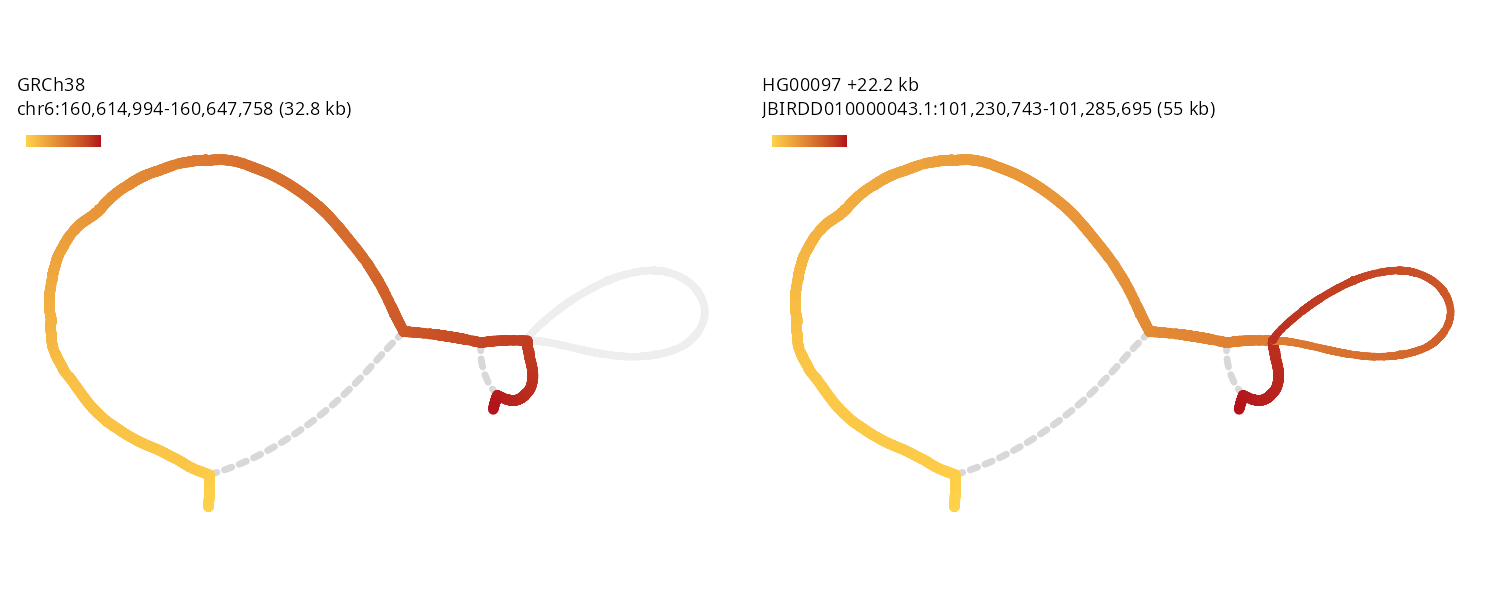
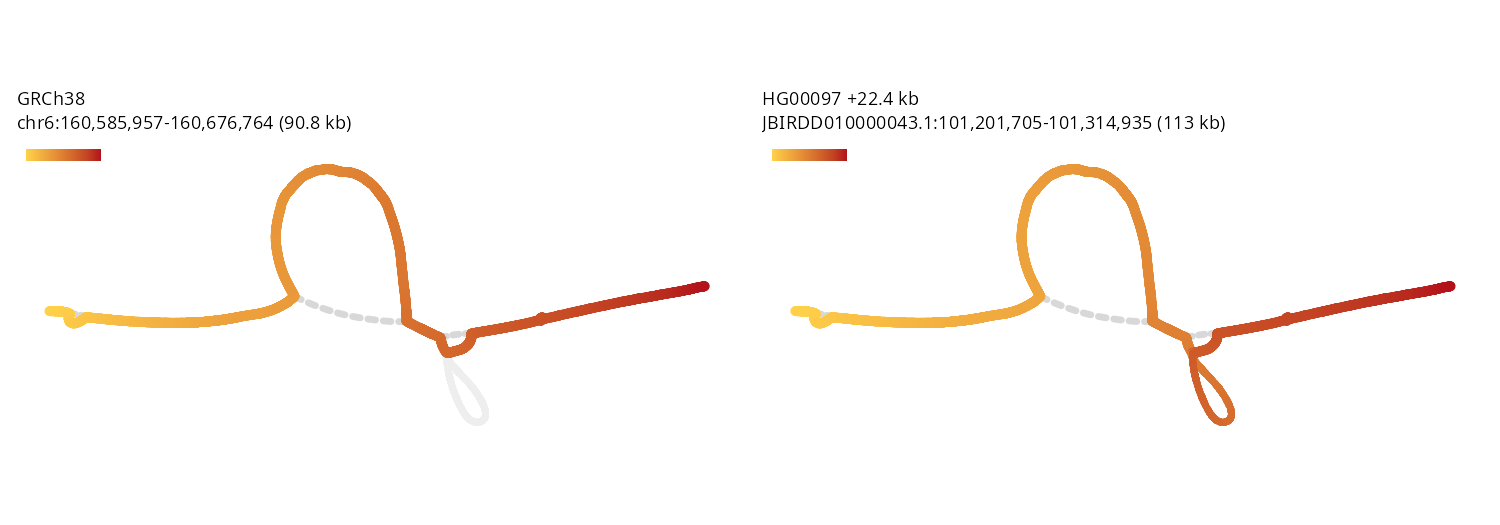
Give own_colours and kiv2_walks 30 kb of KIV-2 flank
Both drew GRCh38 as a 1 kb stub, so neither showed where straight reference
meets the array. own_colours also compresses node lengths, since its
two-haplotype loop filled most of the figure. kiv2_walks keeps lengths
proportional: compressing shrinks HG00097's 22 kb loop, the one thing it shows.

diff --git a/README.md b/README.md
@@ -78,7 +78,7 @@ kinds of index, exporting a region as GFA, and building a region's syng graph.
 <!-- gallery -->
 <table>
 <tr><td width="25%"><a href="docs/gallery.md#cfhr3-and-cfhr1-deleted-in-one-haplotype"><img src="gallery/cfh_overlay.png" alt="Force-directed CFH locus with GRCh38, HG00097 and HG02055 lifted together, each shaded along its own length: GRCh38 grey, HG00097 cyan to blue and HG02055 pink to plum. GRCh38 and HG00097 run the loop through CFHR3 and CFHR1, and HG02055 alone takes the dashed deletion edge under it. Walk rows below, each on its walk's ramp, give the lengths, GRCh38 and HG00097 260 kb and HG02055 176 kb, and the ribbons from HG00097 down to HG02055 break across the 85 kb HG02055 lacks" width="100%"></a><br>CFHR3 and CFHR1 deleted in one haplotype</td><td width="25%"><a href="docs/gallery.md#kiv-2-copy-number-as-walk-rows"><img src="gallery/kiv2_rows.png" alt="Walk rows at KIV-2 on a bp-from-flank axis: between the flanking reference nodes GRCh38 spans 31 kb and HG00133#2 164 kb, and the extra copies, on non-reference nodes, fall into three blocks: A, 68 kb walked by HG02055#1 and HG00133#2; B, 22 kb walked by four haplotypes; and C, 5.5 kb walked by two" width="100%"></a><br>KIV-2 copy number as walk rows</td><td width="25%"><a href="docs/gallery.md#amylase-haplotypes-from-146-to-475-kb"><img src="gallery/amylase_rows.png" alt="Walk rows over the salivary amylase genes for GRCh38 and seven haplotypes, each bar coloured by the GRCh38 position it covers: against GRCh38's 240 kb the haplotypes span 146 kb to 475 kb. HG00128#1 and HG002#1 walk the non-reference block A twice, CHM13 and HG00097#2 once, HG00099#1 and HG00097#1 walk block C in its place, and HG00097#1 has a 19 kb stretch the graph lacks, drawn as an open box" width="100%"></a><br>Amylase haplotypes from 146 to 475 kb</td><td width="25%"><a href="docs/gallery.md#cyp2d6-deletion-as-an-arch-over-the-gene"><img src="gallery/cyp2d6_stress.png" alt="Stress layout of CYP2D6 from the hosted index, GRCh38 drawn straight and coloured by position from NDUFA6-DT to CYP2D7, exons outlined in gold: a dashed arch spans CYP2D6, the route of haplotypes that skip the gene, and non-reference sequence hangs in charcoal loops above and below" width="100%"></a><br>CYP2D6 deletion as an arch over the gene</td></tr>
-<tr><td width="25%"><a href="docs/gallery.md#kiv-2-expansions-as-extra-loops"><img src="gallery/kiv2_overlay.png" alt="Force-directed KIV-2 array with GRCh38, HG00133 and HG00097 lifted together, each shaded along its own length from light to mid-tone: GRCh38 grey, HG00133 cyan to blue, 133 kb longer, and HG00097 yellow to red-orange, 22.4 kb longer. GRCh38 runs straight in along 30 kb of flank from either side to a knot of loops at the array. Where walks share nodes their lanes run side by side. All three walks run the loops at the top, HG00133 and HG00097 run the loop at the lower right together, and HG00133 alone runs the loop at the lower left. Walk rows below, each on its walk's ramp under a grey strip where it runs on the GRCh38 path, give the lengths: GRCh38 31 kb, HG00133 164 kb and HG00097 53 kb, with the lower right loop outlined as block A in both" width="100%"></a><br>KIV-2 expansions as extra loops</td><td width="25%"><a href="docs/gallery.md#c4-copies-as-threads-round-an-impg-syng-graph"><img src="gallery/syng_overlay.png" alt="The syng graph of C4 with three walks lifted together, each shaded light to dark along its own length, grch38#chr6 grey, HG01978#2 cyan to blue and HG01952#1 peach to rust, and a thread for every pass through a node: round the ring, outside in, grch38#chr6 draws two threads, HG01978#2 three, its extra C4 copy, and HG01952#1 two, each pass darker than the one before. Grey and blue threads run round the HERV-K loop at the left, and the orange ones cut across it. Walk rows below, each on its walk's ramp under a grey strip where it runs on the grch38 path, give the lengths: grch38#chr6 84 kb, HG01978#2 116 kb and HG01952#1 71 kb" width="100%"></a><br>C4 copies as threads round an impg syng graph</td><td width="25%"><a href="docs/gallery.md#rhd-deletion-and-duplication-in-an-impg-syng-graph"><img src="gallery/syng_rhd.png" alt="Force-directed syng graph of RHD from 19 HPRC haplotypes with three walks lifted together, each shaded light to dark along its own length, grch38 grey, HG01106#1 cyan to blue and HG01258#2 peach to rust, and a thread for every pass through a node. Through the Rhesus box at the left, grch38 draws two threads, HG01106#1 three and HG01258#2 one, each pass darker than the one before. Round the loop at the top, labelled RHD, grch38 draws one thread, HG01106#1 two, its second RHD, and HG01258#2 none, taking the box straight on to the loop below, labelled TMEM50A and RHCE, that every walk runs once. In the walk rows below, each on its walk's ramp under a grey strip where it runs on the grch38 path, grch38 spans 202 kb, HG01106#1 272 kb and HG01258#2 132 kb" width="100%"></a><br>RHD deletion and duplication in an impg syng graph</td><td width="25%"><a href="docs/gallery.md#your-own-colours-kiv-2-by-haplotypes-per-node"><img src="gallery/own_colours.png" alt="The KIV-2 array cut from the walk file, force-directed and drawn with plain ggplot2 layers: grey edges, and each node coloured and sized by how many of the six haplotypes, GRCh38 and the five named, run through it, from a thin pale line for one to a thick dark line for all six" width="100%"></a><br>Your own colours: KIV-2 by haplotypes per node</td></tr>
+<tr><td width="25%"><a href="docs/gallery.md#kiv-2-expansions-as-extra-loops"><img src="gallery/kiv2_overlay.png" alt="Force-directed KIV-2 array with GRCh38, HG00133 and HG00097 lifted together, each shaded along its own length from light to mid-tone: GRCh38 grey, HG00133 cyan to blue, 133 kb longer, and HG00097 yellow to red-orange, 22.4 kb longer. GRCh38 runs straight in along 30 kb of flank from either side to a knot of loops at the array. Where walks share nodes their lanes run side by side. All three walks run the loops at the top, HG00133 and HG00097 run the loop at the lower right together, and HG00133 alone runs the loop at the lower left. Walk rows below, each on its walk's ramp under a grey strip where it runs on the GRCh38 path, give the lengths: GRCh38 31 kb, HG00133 164 kb and HG00097 53 kb, with the lower right loop outlined as block A in both" width="100%"></a><br>KIV-2 expansions as extra loops</td><td width="25%"><a href="docs/gallery.md#c4-copies-as-threads-round-an-impg-syng-graph"><img src="gallery/syng_overlay.png" alt="The syng graph of C4 with three walks lifted together, each shaded light to dark along its own length, grch38#chr6 grey, HG01978#2 cyan to blue and HG01952#1 peach to rust, and a thread for every pass through a node: round the ring, outside in, grch38#chr6 draws two threads, HG01978#2 three, its extra C4 copy, and HG01952#1 two, each pass darker than the one before. Grey and blue threads run round the HERV-K loop at the left, and the orange ones cut across it. Walk rows below, each on its walk's ramp under a grey strip where it runs on the grch38 path, give the lengths: grch38#chr6 84 kb, HG01978#2 116 kb and HG01952#1 71 kb" width="100%"></a><br>C4 copies as threads round an impg syng graph</td><td width="25%"><a href="docs/gallery.md#rhd-deletion-and-duplication-in-an-impg-syng-graph"><img src="gallery/syng_rhd.png" alt="Force-directed syng graph of RHD from 19 HPRC haplotypes with three walks lifted together, each shaded light to dark along its own length, grch38 grey, HG01106#1 cyan to blue and HG01258#2 peach to rust, and a thread for every pass through a node. Through the Rhesus box at the left, grch38 draws two threads, HG01106#1 three and HG01258#2 one, each pass darker than the one before. Round the loop at the top, labelled RHD, grch38 draws one thread, HG01106#1 two, its second RHD, and HG01258#2 none, taking the box straight on to the loop below, labelled TMEM50A and RHCE, that every walk runs once. In the walk rows below, each on its walk's ramp under a grey strip where it runs on the grch38 path, grch38 spans 202 kb, HG01106#1 272 kb and HG01258#2 132 kb" width="100%"></a><br>RHD deletion and duplication in an impg syng graph</td><td width="25%"><a href="docs/gallery.md#your-own-colours-kiv-2-by-haplotypes-per-node"><img src="gallery/own_colours.png" alt="The KIV-2 array cut from the walk file, force-directed and drawn with plain ggplot2 layers: grey edges, and each node coloured and sized by how many of the six haplotypes, GRCh38 and the five named, run through it, from a thin pale line for one to a thick dark line for all six. The 30 kb of flank either side, which all six walk, runs in as straight black lines" width="100%"></a><br>Your own colours: KIV-2 by haplotypes per node</td></tr>
 </table>
 <!-- /gallery -->
 

diff --git a/docs/gallery.md b/docs/gallery.md
@@ -193,10 +193,11 @@ autoplot(g) / autoplot(rows, ribbons = FALSE, hues = "walk", layout = g) + plot_
 - Colour and width both show `depth`, how many of the six haplotypes run through
   a node. `depth` counts every pass, so where a cut's haplotype runs a node twice
   it counts twice; no haplotype in this cut repeats a node.
-- A pale dot on a dark strand is a 1 bp node that one or two haplotypes carry, a
-  single-base variant inside a copy the rest share.
+- A short pale dash on a dark strand is a 1 bp node that one or two haplotypes
+  carry, a single-base variant inside a copy the rest share. `bubbleSpread =
+  "compress"` draws it that long, and stops loop size tracking bp.
 
-![The KIV-2 array cut from the walk file, force-directed and drawn with plain ggplot2 layers: grey edges, and each node coloured and sized by how many of the six haplotypes, GRCh38 and the five named, run through it, from a thin pale line for one to a thick dark line for all six](../gallery/own_colours.png)
+![The KIV-2 array cut from the walk file, force-directed and drawn with plain ggplot2 layers: grey edges, and each node coloured and sized by how many of the six haplotypes, GRCh38 and the five named, run through it, from a thin pale line for one to a thick dark line for all six. The 30 kb of flank either side, which all six walk, runs in as straight black lines](../gallery/own_colours.png)
 
 ```r
 library(ggbandage)
@@ -206,7 +207,7 @@ walks <- "https://jbrowse.org/demos/hprc/hprc-v2.1-mc-grch38-f5.GRCh38.walks.bed
 kiv2 <- "chr6:160,616,004-160,646,753"
 five <- c("HG00097#1", "HG00099#1", "HG00133#2", "HG01123#1", "HG02055#1")
 
-g <- bandage_layout(walks, region = kiv2, haplotypes = five)
+g <- bandage_layout(walks, region = kiv2, haplotypes = five, context = 30000, bubbleSpread = "compress")
 haplotypes <- "haplotypes through node"
 ggplot(g) +
   geom_bandage_edges(aes(colour = I("grey80"))) +
@@ -227,7 +228,7 @@ Narrower cases, and other ways to draw the same loci.
 
 `chr6:160,616,004-160,646,753`
 
-![Force-directed layout of the KIV-2 array cut from the walk file for HG00097, GRCh38 and HG00097 each lifted in a separate panel and shaded yellow to red along its length: HG00097 walks one 22 kb loop that GRCh38 skips, and the panel titles give HG00097 55 kb and GRCh38 32.8 kb, each span the region plus 1 kb of flank either side](../gallery/kiv2_walks.png)
+![Force-directed layout of the KIV-2 array cut from the walk file for HG00097, GRCh38 and HG00097 each lifted in a separate panel and shaded yellow to red along its length: HG00097 walks one 22 kb loop that GRCh38 skips, and a grey dashed link that neither walk takes skips the loop at the top. The panel titles give HG00097 113 kb and GRCh38 90.8 kb, each span the region plus 30 kb of flank either side](../gallery/kiv2_walks.png)
 
 ```r
 library(ggbandage)
@@ -237,7 +238,7 @@ kiv2 <- "chr6:160,616,004-160,646,753"
 
 g <- bandage_layout(
   walks,
-  region = kiv2, haplotypes = "HG00097#1",
+  region = kiv2, haplotypes = "HG00097#1", context = 30000,
   walks = c("GRCh38", "HG00097#1"),
   facet = "walk"
 )
